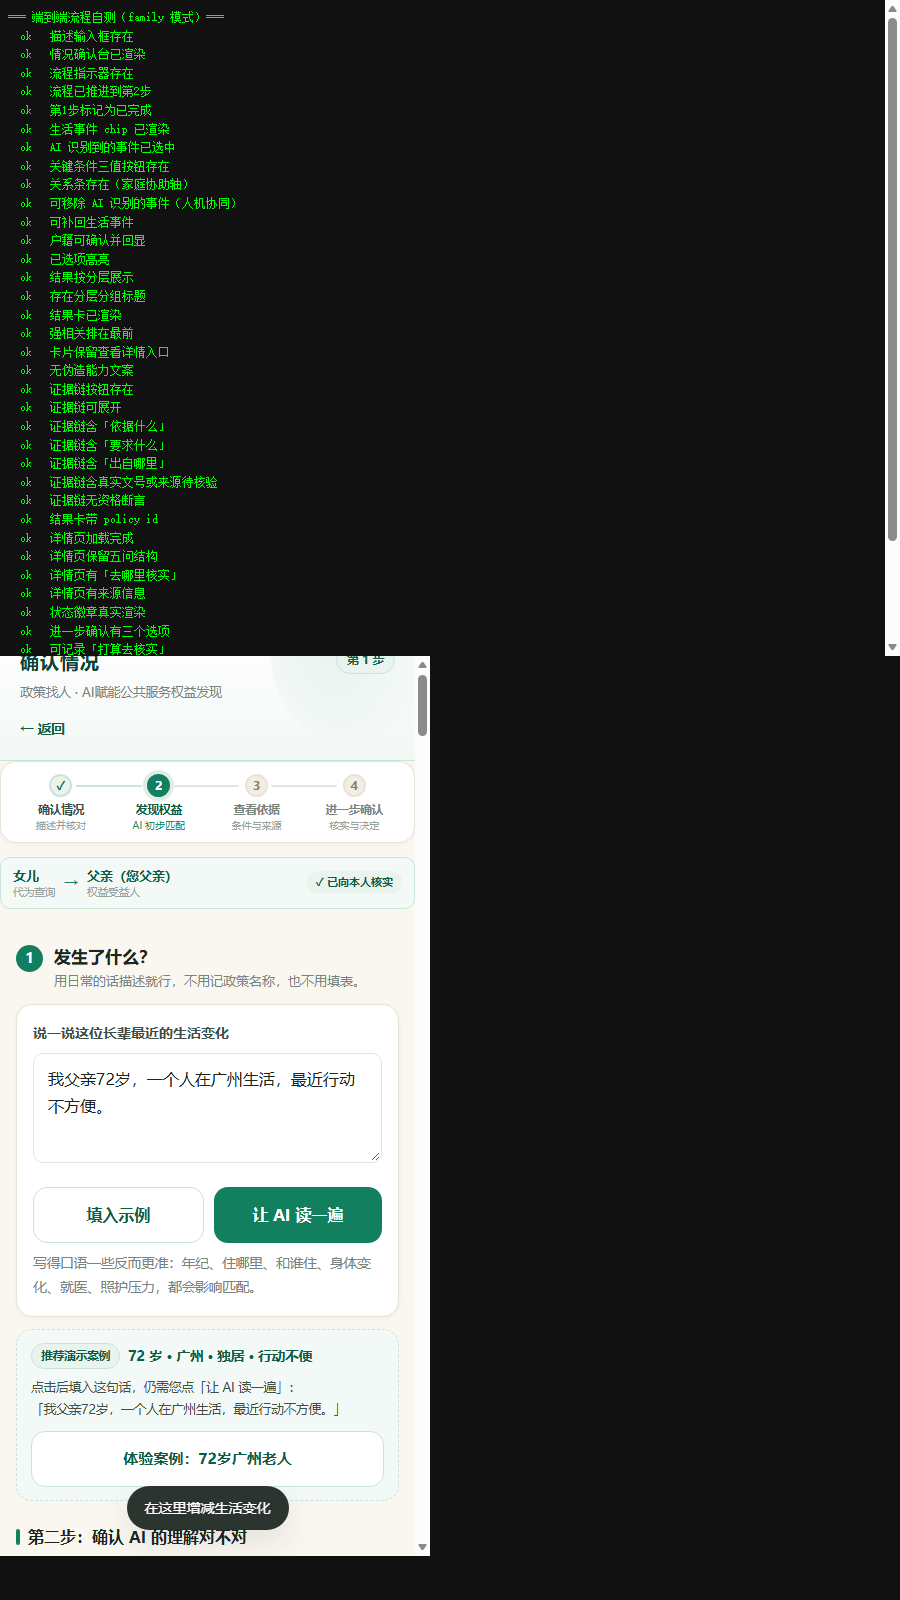
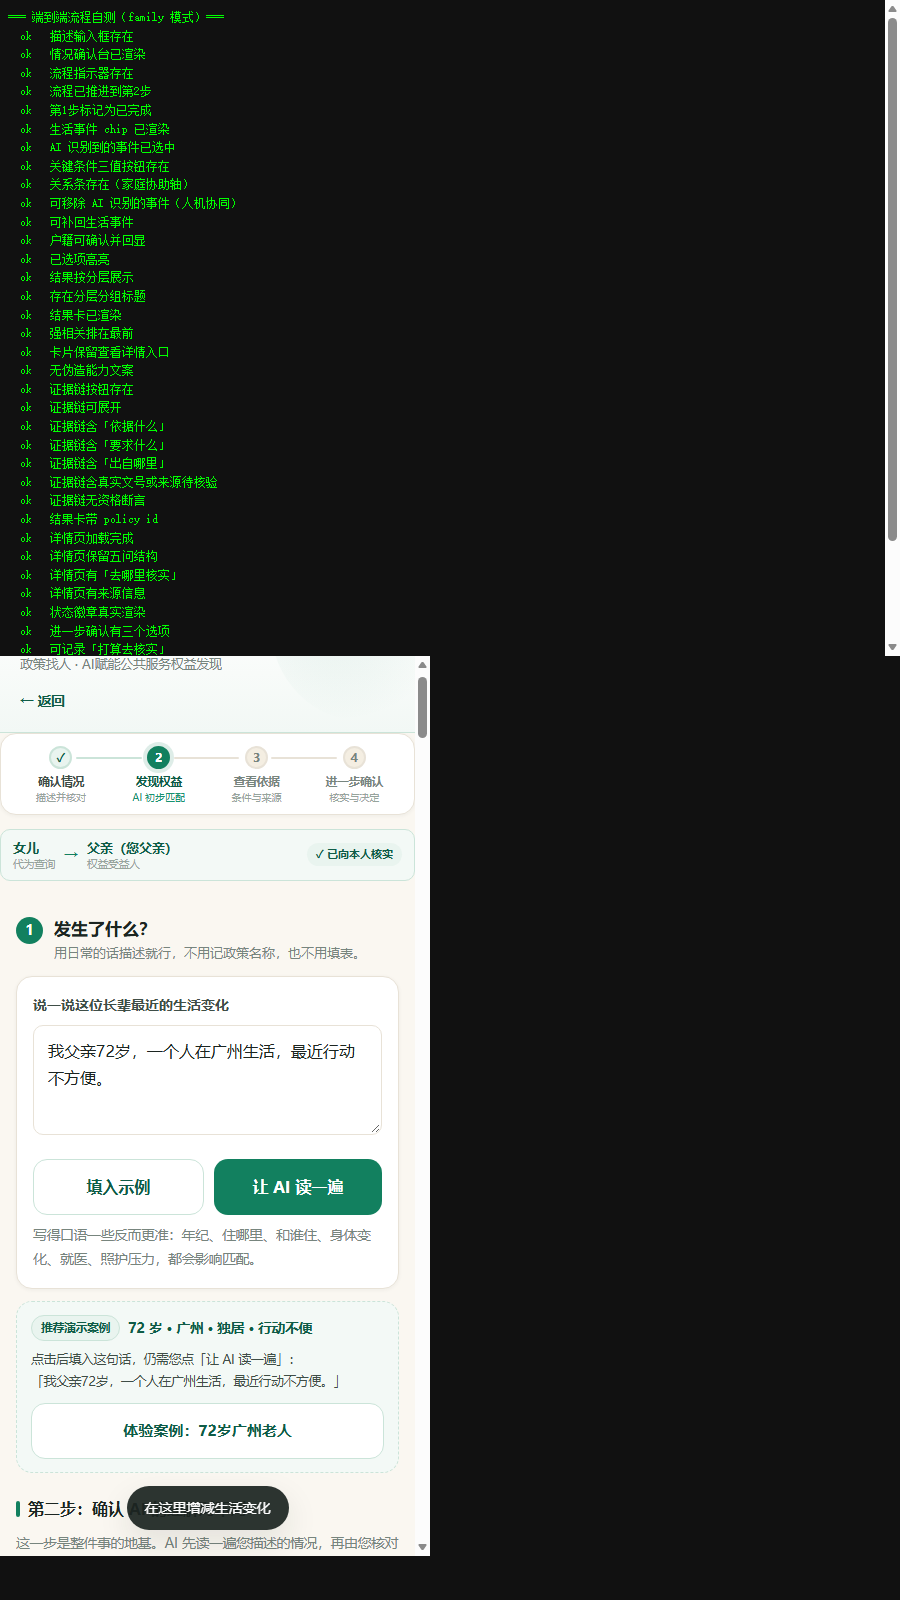
docs: 更新流程说明、测试指引与修改记录
- README 补充四步主流程与两条贯穿轴（家庭协助 / 生活事件）的定位
- 目录结构、接口表新增 /api/scenes、/api/tiers
- 匹配逻辑补充证据链派生与结果分层的说明
- 新增第十一节「测试与回归」：5 个脚本的用途与运行方式
- 记录本轮全部修改与影响范围
- e2e 自测页面移入 .tools/，由 e2e.py 临时复制、跑完自动清理

附：.ui-shots/v2/ 存放本轮各阶段视觉核对截图

Changed region(s): [[0.0, 0.4062, 0.4356, 0.9688], [0.3733, 0.9375, 0.4356, 0.9688]]

diff --git a/.tools/e2e.py b/.tools/e2e.py
@@ -5,8 +5,9 @@
     python .tools/e2e.py            # 家庭模式 + 本人模式都跑
     python .tools/e2e.py family     # 只跑家庭模式
 
-原理：页面 frontend/_e2e.html 在 iframe 里逐步操作真实 UI，
-每条断言通过 fetch POST 到 /__e2e_log，本脚本轮询取回结果。
+原理：把 .tools/e2e_page.html 临时复制成 frontend/_e2e.html，
+该页面在 iframe 里逐步操作真实 UI，每条断言通过 fetch POST 到
+/__e2e_log，本脚本轮询取回结果。跑完自动删除临时文件。
 （截图受 --virtual-time-budget 限制跑不完异步断言，所以走数据回传。）
 """
 
@@ -21,6 +22,8 @@ import urllib.request
 
 ROOT = os.path.dirname(os.path.dirname(os.path.abspath(__file__)))
 BASE = "http://127.0.0.1:8000"
+PAGE_SRC = os.path.join(ROOT, ".tools", "e2e_page.html")
+PAGE_DST = os.path.join(ROOT, "frontend", "_e2e.html")
 EDGE_CANDIDATES = [
     r"C:\Program Files (x86)\Microsoft\Edge\Application\msedge.exe",
     r"C:\Program Files\Microsoft\Edge\Application\msedge.exe",
@@ -110,9 +113,16 @@ def main():
         print("后端未启动，请先运行 python backend/server.py")
         return 1
 
+    # 临时把自测页面放进可访问目录
+    shutil.copyfile(PAGE_SRC, PAGE_DST)
+
     total = 0
-    for m in modes:
-        total += run_mode(edge, m, shots)
+    try:
+        for m in modes:
+            total += run_mode(edge, m, shots)
+    finally:
+        if os.path.exists(PAGE_DST):
+            os.remove(PAGE_DST)
 
     print("\n端到端自测%s：总失败 %d" % ("失败" if total else "通过", total))
     return 1 if total else 0

diff --git a/docs/README.md b/docs/README.md
@@ -10,32 +10,39 @@
 
 目标场景：老年人公共服务。家属（如子女）用一句话描述老人的生活变化，系统提示「可能相关」的权益，并明确告知为什么推荐、还需确认什么、去哪里核实。
 
+**四步主流程**：`确认情况 → 发现可能相关政策 → 查看政策依据 → 进一步确认`。两条轴贯穿始终：**家庭协助**（谁在帮谁查、关键信息需受益人确认）与**生活事件**（AI 识别的生活变化可被用户纠正）。每条推荐都能展开**证据链**：依据什么（用户的事实）→ 要求什么（政策的结构化条件）→ 出自哪里（部门 / 文号 / 发布日期 / 核验状态）。
+
 ## 二、当前阶段：可运行产品原型
 
 本阶段**不接入大模型、不训练模型**，先把产品骨架与数据层做实：
 
 ```
-用户输入情况 → 生成老人画像 → 读取真实政策数据库 → 展示可能相关权益 → 查看政策详情
+描述生活变化 → 情况确认台（核对事实 / 增删生活事件 / 三值确认硬条件）
+             → AI 初步匹配（结果分强相关 / 可能相关 / 待确认）
+             → 证据链与政策依据（条件 / 来源 / 办理 / 去哪核实）
+             → 进一步确认（用户表态，或回去调整后重新匹配）
 ```
 
-后续再接 DeepSeek / RAG / Embedding / 规则引擎，替换当前的关键词画像解析与规则匹配。
+后续再接 DeepSeek / RAG / Embedding，把当前的关键词画像解析与规则匹配替换掉。
 
 ## 三、目录结构
 
 ```
 .
 ├── frontend/           移动端页面（原生 HTML/CSS/JS，无构建）
-│   ├── index.html      首页：选择帮助对象
-│   ├── family.html     家庭协助页：操作者 ≠ 受益人
-│   ├── discover.html   AI发现页：输入生活变化，展示结果卡片
-│   ├── policy.html     政策详情页：五问结构
+│   ├── index.html      首页：选择帮助对象 + 「怎么用」四步说明
+│   ├── family.html     家庭协助页：操作者 ≠ 受益人，确认查询关系
+│   ├── discover.html   确认情况 + AI发现（家庭模式）
+│   ├── policy.html     政策依据页：六段结构 + 第4步进一步确认
+│   ├── self.html       同 discover 的本人模式（称谓为「您」）
 │   └── assets/         style.css / app.js
 ├── backend/            接口与匹配逻辑（Python 标准库，零第三方依赖）
 │   ├── server.py       HTTP 服务 + 静态托管 + /api/*
-│   └── policy_engine.py 画像解析、规则匹配、rag_text 生成
+│   └── policy_engine.py 画像解析、规则匹配、证据链、场景库
 ├── data/               政策数据库
 │   ├── guangzhou_elderly_policy_v1.1.json  当前使用
 │   └── guangzhou_elderly_policy_v1.json    V1 初版（保留）
+├── .tools/             开发期测试脚本（不影响运行时，见第十一节）
 └── docs/               项目说明
     ├── README.md
     └── policy-data-notes.md  政策核验记录与待核验清单
@@ -53,15 +60,25 @@ python backend/server.py
 
 ## 五、页面流程
 
-| 页面 | 作用 |
-| --- | --- |
-| 首页 | 选择帮助对象（我的父母 / 我的家人 / 我自己），并按入口分流 |
-| 家庭协助页 | 我的父母、我的家人 走此路径：明确「操作者 ≠ 受益人」，信息状态区分已确认 / 待确认 |
-| AI发现页（家庭模式） | 一句话描述老人生活变化 → 生成画像 → 展示可能相关权益卡片；可补充户籍/医保/失能信息后重新匹配 |
-| 本人权益发现页 | 我自己 走此路径：不经过家庭协助，直接输入自己的生活变化并匹配，称谓为「您」 |
-| 政策详情页 | 五问结构：这是什么 / 为什么推荐 / 需要确认什么 / 办理流程 / 政策来源 |
+产品主流程分四步，页面顶部常驻流程指示器，让用户始终知道自己在哪一步：
+
+| 步骤 | 页面 | 作用 |
+| --- | --- | --- |
+| — | 首页 `index.html` | 选择帮助对象（我的父母 / 我的长辈 / 我自己），含「怎么用」四步说明 |
+| 1 确认情况 | 家庭协助页 `family.html` | 明确「操作者 ≠ 受益人」，选择查询关系并勾选已向本人核实 |
+| 1 确认情况 | 发现页 `discover.html` / `self.html` | 一句话描述生活变化 → **情况确认台**：核对基础事实、增减生活事件 chip、确认户籍/医保/失能 |
+| 2 发现可能相关政策 | 同上（结果区） | 结果按「强相关 / 可能相关 / 待确认」分层；每张卡可展开**证据链** |
+| 3 查看政策依据 | 详情页 `policy.html` | 六段结构：这是什么 / 为什么推荐（证据链）/ 还需要确认什么 / 去哪里核实 / 怎么办理 / 政策来源 |
+| 4 进一步确认 | 同上（页尾） | 用户明确表态：打算去核实 / 先记下来 / 情况不适用；并可回到第1步调整 |
+
+**两条贯穿全流程的轴**：
+
+- **家庭协助轴**：家人代查时，顶部持续显示「谁在帮谁查」关系条与「待本人确认 / 已向本人核实」标记；本人模式下不显示。
+- **生活事件轴**：AI 识别出的生活变化以 chip 呈现，**用户可点掉或补上**，纠正结果会写回画像（`confirmed_scenes`）并重新匹配，后续轮次不会被覆盖。
 
 **入口分流规则**：`target = parents / family` → `family.html`（家庭协助模式）；`target = self` → `self.html`（本人模式）。两种模式共用同一套匹配接口与渲染函数，仅称谓与文案不同（`/api/match` 传 `mode: "self"`）。
+
+**详情页回跳定位**：详情页第 4 步的「回去调整生活变化 / 回去补充关键条件」分别跳回 `discover.html?focus=scene` 与 `?focus=cond`，自动滚动并高亮对应区块。
 
 ## 六、接口
 
@@ -69,9 +86,11 @@ python backend/server.py
 | --- | --- | --- |
 | GET | `/api/health` | 服务与数据库状态 |
 | GET | `/api/policies` | 政策列表（精简字段） |
+| GET | `/api/scenes` | 生活事件库（可带 `?profile=` 标注已识别项） |
+| GET | `/api/tiers` | 分层口径说明 |
 | GET | `/api/policy/<id>` | 政策详情（含 rag_text） |
 | POST | `/api/profile` | 文本 → 老人画像 |
-| POST | `/api/match` | 画像/文本 → 可能相关权益列表 |
+| POST | `/api/match` | 画像/文本 → 可能相关权益列表（含 `evidence`、`tier`、`scene_library`、`tier_summary`） |
 | POST | `/api/explain` | 单条政策 → 渲染后的推荐理由 |
 
 示例：
@@ -82,12 +101,20 @@ curl -X POST http://127.0.0.1:8000/api/match \
   -d '{"text":"我父亲72岁，一个人在广州生活，最近行动不方便。","relation":"父亲","operator":"女儿"}'
 ```
 
+**人机协同参数**：`/api/match` 的 `profile` 支持 `confirmed_scenes`（数组，replace 语义的最终事件清单）与 `scenes_edited`（标记用户已纠正）。命中时后端回传同样字段，保证前端多轮交互中用户的纠正不被丢弃。
+
 ## 七、匹配逻辑（当前为规则引擎）
 
 1. **画像解析**：从文本中抽取年龄（含中文数字）、地区、生活场景标签（独居/行动不便/吃饭困难/需要照护/长期卧床/医疗护理压力/记忆下降/跌倒风险/子女无法陪伴/经济压力）、亲属关系与操作者身份。
 2. **硬条件判断（三值）**：年龄门槛、户籍、医保参保、失能状态。`未知 → 转为「待确认」并列出缺口`，`明确不符合 → 不推荐`，`符合 → 保留`。地区不符直接不推荐。
 3. **场景打分**：命中 `match.scene_signals` 越多得分越高，叠加政策优先级。
 4. **理由生成**：只由画像事实支撑——政策侧表述（`ai_reason`）+ 仅当场景确实命中时才生成的 `scene_reason_map` 条目。**没有任何场景命中时，只保留年龄类理由并强制降权、标为待确认**，杜绝"描述中提到…"式的无依据断言。
+5. **证据链派生**（`build_evidence_chain`）：把匹配结果拆成三段，供前端展示与复核——
+   - 画像依据：命中的生活事件 + 用户提供的年龄/地区；
+   - 政策条件：逐条列出该政策的结构化条件与状态（`met` / `unknown` / `failed`），状态文字是「已确认 / 待确认 / 已确认不符合」，**不出现「符合资格」**；
+   - 官方依据：责任部门、文件名、文号、发布时间、核验状态。
+   三段内容全部从数据库已有字段派生，**不新增字段、不改写政策表述**；`to_verify` 条目的文件名/文号/链接一律留空。
+6. **结果分层**（`assign_tier`）：`强相关`（有场景命中且无关键缺口）/ `可能相关`（有场景命中但有待确认项）/ `待确认`（仅年龄门槛命中）。仅用于展示分组，不改变推荐与否。
 
 ## 八、产品红线（不可违反）
 
@@ -111,9 +138,28 @@ curl -X POST http://127.0.0.1:8000/api/match \
 - [ ] 引入 RAG：检索 + 结构化条件双重校验，理由可溯源到原文片段
 - [ ] 规则引擎升级为可配置的 DSL，支持多城市扩展
 - [ ] 补充 007/008 两条 `to_verify` 政策的一手来源
-- [ ] 详情页增加「更正信息并重新匹配」入口（AI 建议 → 用户确认/更正 → 重新匹配 → 用户决策）
+- [x] 详情页增加「更正信息并重新匹配」入口 → 已实现（回跳定位 + 生活事件纠正 + 关键条件补充）
+- [ ] 把「进一步确认」的表态结果接到本地提醒（如「隔周提醒去核实」）
 
-## 十一、修改记录
+## 十一、测试与回归
+
+改动前先跑基线，改完再跑一遍。以下命令需先启动服务（`python backend/server.py`）。
+
+```bash
+python .tools/baseline.py check   # 引擎回归：12 个用例与基线快照逐字段比对
+python .tools/apitest.py          # 接口冒烟：41 项（含硬条件三值、to_verify、双模式）
+node .tools/render-test.js        # 渲染单测：62 项（vm 里跑 app.js 纯函数）
+node .tools/page-check.js         # 页面接线：103 项（内联脚本语法、函数引用、红线文案）
+python .tools/e2e.py              # 端到端：驱动本机 Edge 跑完整流程，家庭 38 / 本人 37 项
+```
+
+- `baseline.py` 只比对**不应被改动**的部分（结果条数、顺序、status、score、理由文本、待确认项），新增字段不参与比对。
+  基线快照在 `.tools/baseline_snapshot.json`；若有意修改匹配逻辑，用 `python .tools/baseline.py save` 更新，并在修改记录里说明。
+- `e2e.py` 会把 `.tools/e2e_page.html` 临时复制为 `frontend/_e2e.html`，跑完自动删除。断言结果经 `/__e2e_log` 回传，因此不受无头浏览器截图时机限制。
+- 端到端覆盖：确认台渲染 → 增删生活事件 → 硬条件三值确认 → 结果分层 → 证据链展开 → 详情页 → 进一步确认表态 → 回跳确认台。
+- `agent-browser` 在本机因 Chromium 下载超时不可用，端到端改用系统自带 Edge（`msedge.exe`）无头模式。
+
+## 十二、修改记录
 
 | 日期 | 修改文件 | 修改原因 | 可能影响 |
 | --- | --- | --- | --- |
@@ -137,3 +183,18 @@ curl -X POST http://127.0.0.1:8000/api/match \
 | 2026-09-29 | `frontend/discover.html`、`frontend/self.html` | AI 发现过程改为两次真实请求驱动（`/api/profile` → 前两步打勾，`/api/match` → 后两步打勾），完成后保留「AI 分析依据」摘要条；补充信息增加 toast 反馈 | 无 setTimeout 假进度；滚动恢复与高度锁定逻辑原样保留 |
 | 2026-09-29 | `frontend/family.html` | 三步进度条（当前步高亮）、查询关系双框（操作者→受益人）、信息状态逐项 ✓/○ 清单 | 保留全部原功能：角色网格、本人操作默认确认、勾选确认、下一步分流 |
 | 2026-09-29 | `frontend/assets/style.css` | 新增卡片分段/核验徽章/AI 流程/进度条/状态清单样式；按钮统一 ≥56px；底部说明 13px | 兼容全部既有页面 |
+| 2026-09-29 | `frontend/assets/style.css`、`frontend/*` | UI 升级第一阶段：全局视觉系统重写（温暖绿 + 米白 + 浅暖提示 + 浅蓝信任区；字号阶梯适老化；卡片三级层级；动效系统与 `prefers-reduced-motion`；safe-area；桌面端容器观感） | 全部页面共享新视觉；所有既有 class 与 CSS 变量名保留，业务逻辑零改动 |
+| 2026-09-29 | `frontend/index.html` | UI 升级第一阶段：首页重做（「政策找人」大标题 + 理念副标题；入口改为 我的父母/我的长辈/我自己；新增「操作者 ≠ 受益人」对照块；新增数据可信度条，数字实时取自 `/api/policies`，接口失败整条隐藏） | 入口 `data-target` 与分流逻辑未变；新增仅读取既有接口 |
+| 2026-09-29 | `backend/policy_engine.py` | `score_policy()` 增加 4 个来源透传字段（department / document_no / publish_date / checked_at） | 纯数据透传，匹配逻辑与结果零变化（已回归：非户籍排除长寿金、医保否排除长护险） |
+| 2026-09-29 | `frontend/assets/app.js` | 结果卡升级为四段结构（推荐/待确认+原因解释/来源信任区/查看详情）；新增 `personalize`（本人模式称谓）、`explainMissing`（为什么需要确认）、`filterAnsweredMissing`（已答事实去重）、`showToast`、AI 流程组件 | 措辞红线全部保留：可能相关/初步匹配/建议确认/需要核实 |
+| 2026-09-29 | `frontend/discover.html`、`frontend/self.html` | AI 发现过程改为两次真实请求驱动（`/api/profile` → 前两步打勾，`/api/match` → 后两步打勾），完成后保留「AI 分析依据」摘要条；补充信息增加 toast 反馈 | 无 setTimeout 假进度；滚动恢复与高度锁定逻辑原样保留 |
+| 2026-09-29 | `frontend/family.html` | 三步进度条（当前步高亮）、查询关系双框（操作者→受益人）、信息状态逐项 ✓/○ 清单 | 保留全部原功能：角色网格、本人操作默认确认、勾选确认、下一步分流 |
+| 2026-09-29 | `frontend/assets/style.css` | 新增卡片分段/核验徽章/AI 流程/进度条/状态清单样式；按钮统一 ≥56px；底部说明 13px | 兼容全部既有页面 |
+| 2026-10-03 | `backend/policy_engine.py` | 新增 `build_evidence_chain()`：把匹配结果拆成「画像依据 / 政策条件 / 官方依据」三段；新增 `assign_tier()` 结果分层；新增 `build_scene_library()` 生活事件库 | 全部从数据库已有字段派生，**未改动数据库结构与匹配逻辑**（baseline 12 用例回归一致） |
+| 2026-10-03 | `backend/server.py` | 新增 `GET /api/scenes`、`GET /api/tiers`；`POST /api/match` 增加 `tier_summary`、`scene_library`，并支持 `confirmed_scenes` 覆盖（人机协同纠正）；新增 `__e2e_log` 供端到端自测回传断言 | 接口只增不改，既有调用方不受影响 |
+| 2026-10-03 | `frontend/assets/app.js` | 新增 `renderFlow`/`mountFlow`（四阶段流程指示器，正常使用时也显示）、`renderSituationBoard`（情况确认台：生活事件 chip 可增删 + 硬条件三值前置）、`renderEvidenceChain`（证据链）、`renderRelationStrip`（家庭协助轴常驻）；`renderResultCards` 改为分层展示 + 证据链懒展开 | 原有 `renderProfileCard`/`renderConfirmCard`/`renderSceneSummary`/`statusBadge` 等全部保留可用 |
+| 2026-10-03 | `frontend/discover.html`、`frontend/self.html` | 页面重排为「描述 → 情况确认台 → 分层结果」，演示案例卡改由 JS 注入，新增 `?focus=scene\|cond` 回跳定位；bindScenes 写入 `scenes_edited` 标记 | 保留原有的局部刷新锁高、滚动恢复、AI 流程真实打勾逻辑 |
+| 2026-10-03 | `frontend/policy.html` | 五问结构扩为六段（新增「去哪里核实」）；第 2 问改为渲染完整证据链；新增第 4 步「进一步确认」表态出口与回跳入口；状态徽章改读真实匹配结果（原为硬编码「可能相关」） | 原五问内容与浅蓝来源信任卡全部保留；`risk_notice` 仍展示 |
+| 2026-10-03 | `frontend/index.html`、`frontend/family.html`、`frontend/assets/style.css` | 首页新增「怎么用」四步说明卡；各页挂载流程指示器与关系条；`style.css` 追加流程指示器/确认台/分层/证据链/核实指引/进一步确认等样式（累计约 3258 行） | 仅新增选择器，未修改任何既有规则 |
+| 2026-10-03 | `backend/server.py`、`backend/policy_engine.py`、`frontend/discover.html` | **修复**：用户纠正的生活事件在重新匹配后被丢弃——前端用 `data.profile` 覆盖本地存储，而 profile 不含 `confirmed_scenes`。改为后端回传 `confirmed_scenes`/`scenes_edited`，并在仅收到 `scenes_edited` 时沿用上次结果 | 人机协同恢复有效；匹配逻辑本身未变（baseline 回归一致） |
+| 2026-10-03 | `.tools/*` | 新增 5 个测试脚本：`baseline.py`（引擎基线快照比对）、`apitest.py`（41 项接口冒烟）、`render-test.js`（62 项渲染单测）、`page-check.js`（103 项页面接线与红线扫描）、`e2e.py`+`e2e_page.html`（驱动 Edge 跑完整流程，家庭 38 / 本人 37 项） | 仅开发期使用，不影响运行时；`__e2e_log` 端点只在本地自测时收数据 |
